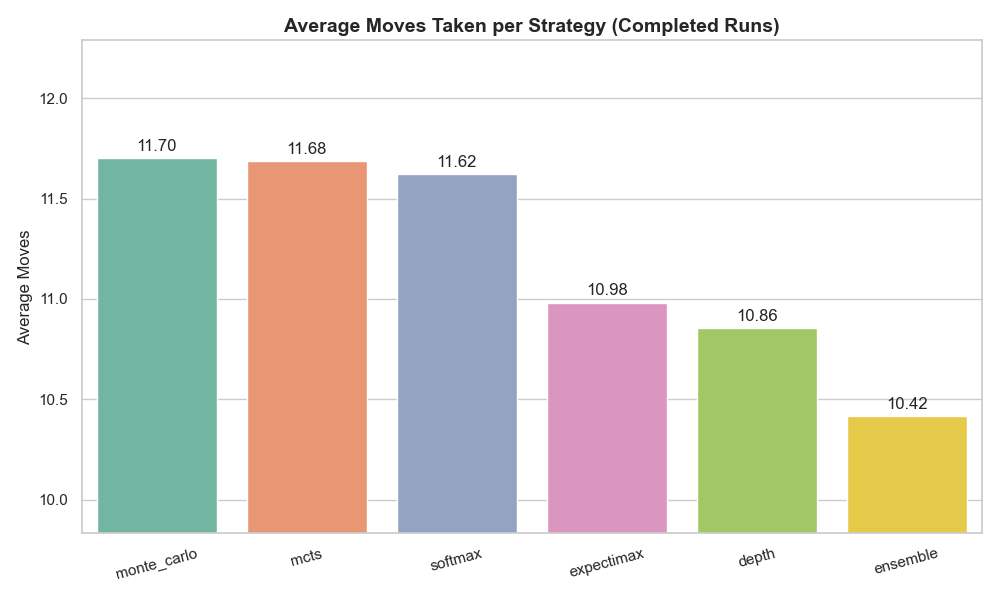
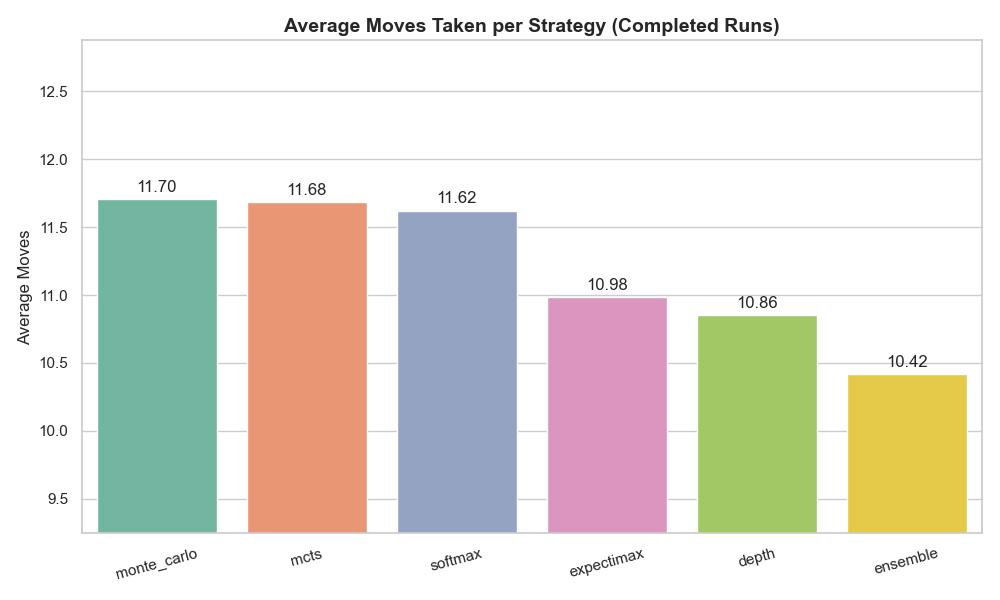
Optimized graph boundary problems.

diff --git a/candy_vision_train.py b/candy_vision_train.py
@@ -969,25 +969,41 @@ def run_move_selection_experiment(skip_existing_results=True):
     summary["Outperformance Rate (%)"] = (
         100 * summary.get("Outperformed", 0) / summary[result_cols].sum(axis=1)
     ).round(2)
+    print("\nStrategy Comparison (Outperformance)")
     print(summary)
     
-    agreement_summary["agreement_rate"] = (agreement_summary["total_agreements"] / agreement_summary["total_considered"]) * 100
-    df = df[df["moves_taken"] >= 0]
-    completed_df = df[df["completed"] == True]
+    df_results = df[df["moves_taken"].notnull()]  # real runs
+    df_agreement = df[df["ensemble_agreement_count"].notnull()]  # agreement-only
+
+    # === Agreement Rate Calculation ===
+    agreement_summary = (
+        df_agreement.groupby("strategy").agg(
+            total_agreements=("ensemble_agreement_count", "sum"),
+            total_considered=("ensemble_total_considered", "sum"),
+        )
+        .reset_index()
+    )
+
+    agreement_summary["agreement_rate"] = (
+        100 * agreement_summary["total_agreements"] / agreement_summary["total_considered"]
+    ).round(2)
+
+    completed_df = df_results[df_results["completed"] == True]
 
     avg_moves_summary = completed_df.groupby("strategy").agg(
         avg_moves=("moves_taken", "mean"),
         total_moves=("moves_taken", "sum"),
     ).reset_index()
 
-    completion_summary = df.groupby("strategy").agg(
+    completion_summary = df_results.groupby("strategy").agg(
         completion_rate=("completed", "mean"),
         runs=("completed", "count"),
         completions=("completed", "sum")
     ).reset_index()
 
+    completion_summary["completion_rate"] = (completion_summary["completion_rate"] * 100).round(2)
+
     summary = pd.merge(avg_moves_summary, completion_summary, on="strategy", how="outer")
-    summary["completion_rate"] = (summary["completion_rate"] * 100).round(2)
 
     print("\nOverall Strategy Comparison")
     print(summary.sort_values(by="completion_rate", ascending=False))
@@ -997,7 +1013,7 @@ def run_move_selection_experiment(skip_existing_results=True):
     else:
         print(agreement_summary.sort_values("agreement_rate", ascending=False))
 
-    # PLOTS
+    # location for saving plots
     move_plot_path = os.path.join(graph_dir, "avg_moves_per_strategy.png")
     completion_plot_path = os.path.join(graph_dir, "completion_rate_per_strategy.png")
     agreement_plot_path = os.path.join(graph_dir, "ensemble_agreement_rate.png")
@@ -1007,7 +1023,7 @@ def run_move_selection_experiment(skip_existing_results=True):
         title="Average Moves Taken per Strategy (Completed Runs)",
         ylabel="Average Moves",
         output_path=move_plot_path,
-        y_lim_pad=0.05
+        y_lim_pad=0.1
     )
 
     # 2. Completion Rate
@@ -1016,7 +1032,7 @@ def run_move_selection_experiment(skip_existing_results=True):
         title="Completion Rate per Strategy (%)",
         ylabel="Completion Rate (%)",
         output_path=completion_plot_path,
-        y_lim_pad=0.05
+        y_lim_pad=0.1
     )
 
     # 3. Agreement Rate
@@ -1025,7 +1041,7 @@ def run_move_selection_experiment(skip_existing_results=True):
         title="Agreement with Ensemble Decision (%)",
         ylabel="Agreement Rate (%)",
         output_path=agreement_plot_path,
-        y_lim_pad=0.05
+        y_lim_pad=0.1
     )
 
 sns.set_theme(style="whitegrid")
@@ -1033,7 +1049,6 @@ def plot_bar(df, x, y, title, ylabel, output_path, y_lim_pad=0.05):
     plt.figure(figsize=(10, 6))
     sorted_df = df.sort_values(y, ascending=False)
 
-    # Dynamically create palette based on the number of unique categories
     n_colors = sorted_df[x].nunique()
     palette = sns.color_palette("Set2", n_colors)
 
@@ -1041,9 +1056,9 @@ def plot_bar(df, x, y, title, ylabel, output_path, y_lim_pad=0.05):
         data=sorted_df,
         x=x,
         y=y,
-        hue=x,             # Required to apply palette safely
+        hue=x,       
         palette=palette,
-        legend=False       # No redundant legend since x-axis already labels
+        legend=False       
     )
 
     for container in ax.containers:
